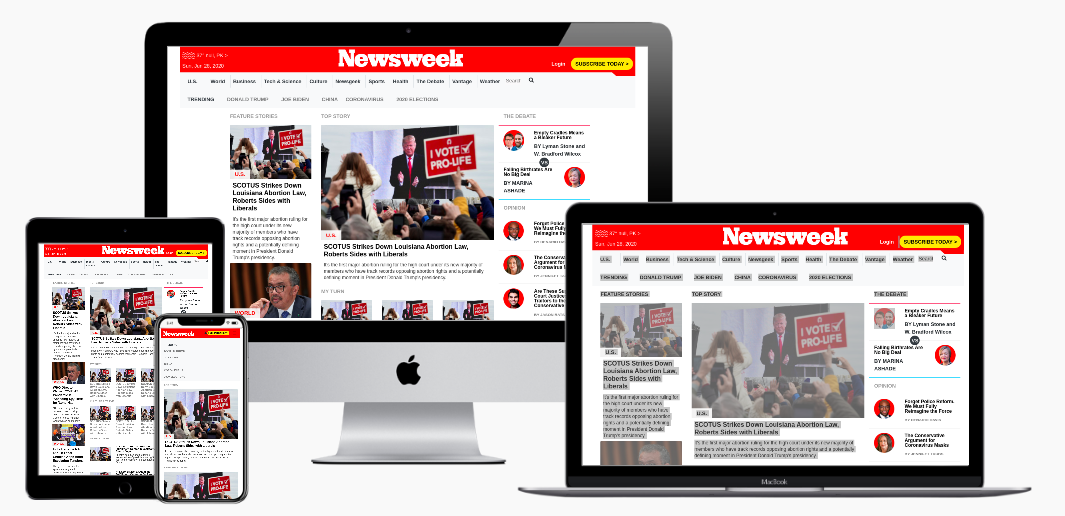
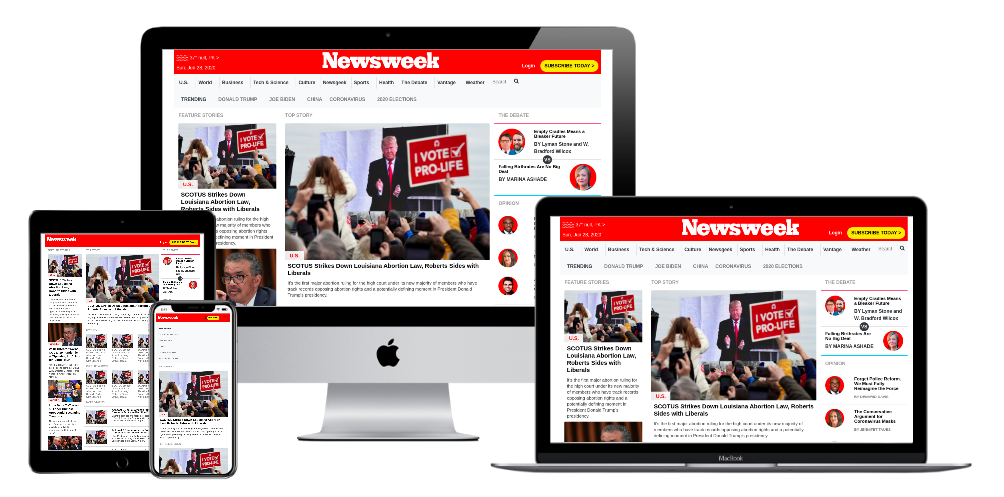
Live URL and multiscreen screen shot updated

diff --git a/README.md b/README.md
@@ -17,7 +17,7 @@ This project is a replica of the The next clone home page. It has a different ne
 
 ## Live Demo
 
-To see a preview of the actual project, check out the [Live Demo Link](https://rawcdn.githack.com/umairarshadbutt/News-Week-Clone/b3cb9c77a99f260771a7ffbe7673b770f26f6ed9/index.html)
+To see a preview of the actual project, check out the [Live Demo Link](https://rawcdn.githack.com/umairarshadbutt/News-Week-Clone/c66dd9ea0af890bf9a8a52e708498da7c554934e/index.html)
 
 
 ## Getting Started
